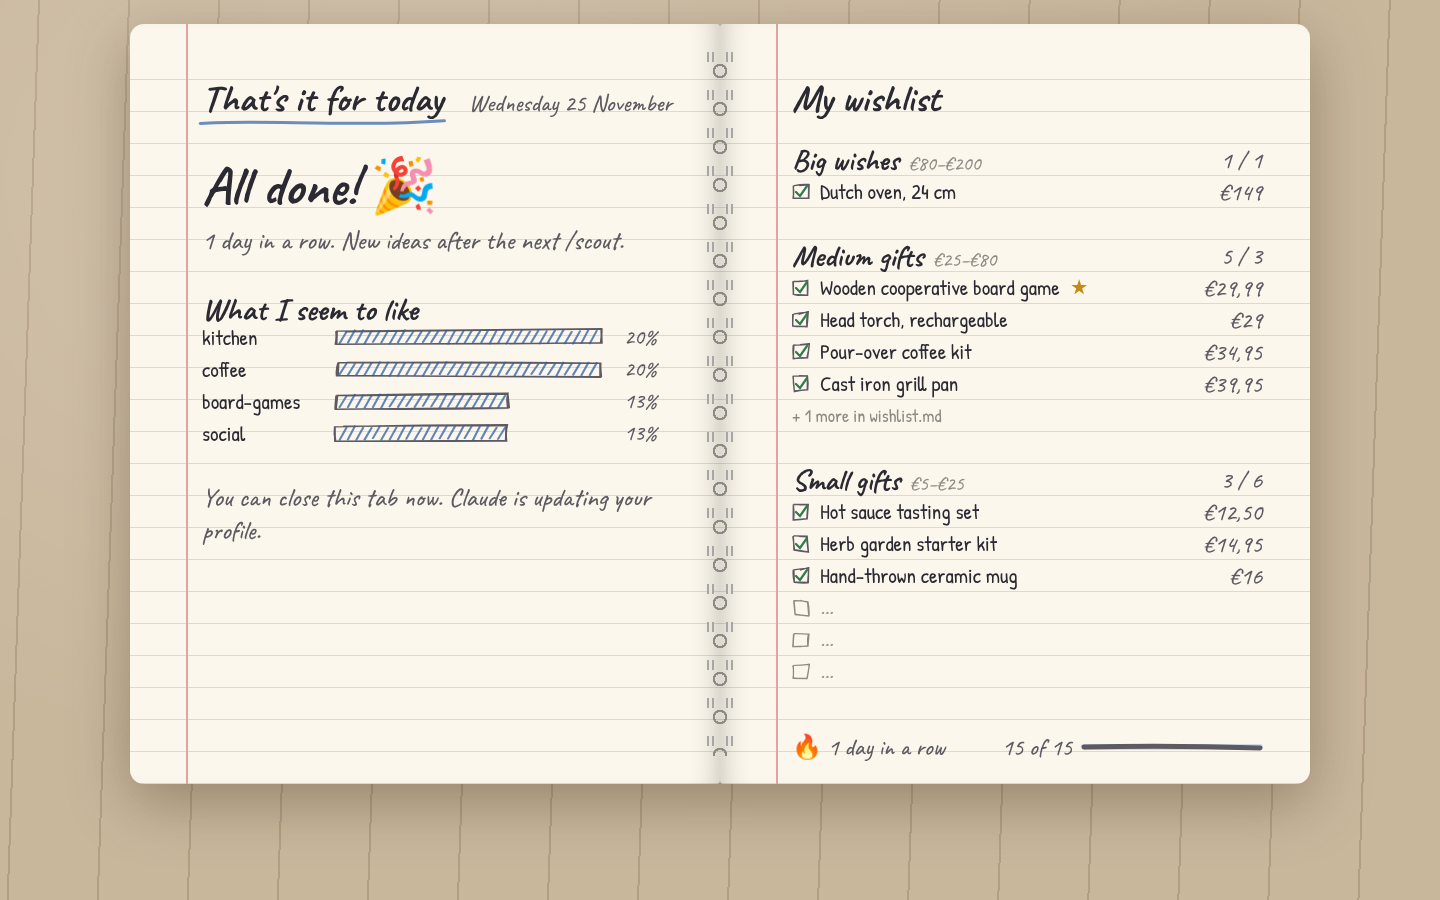
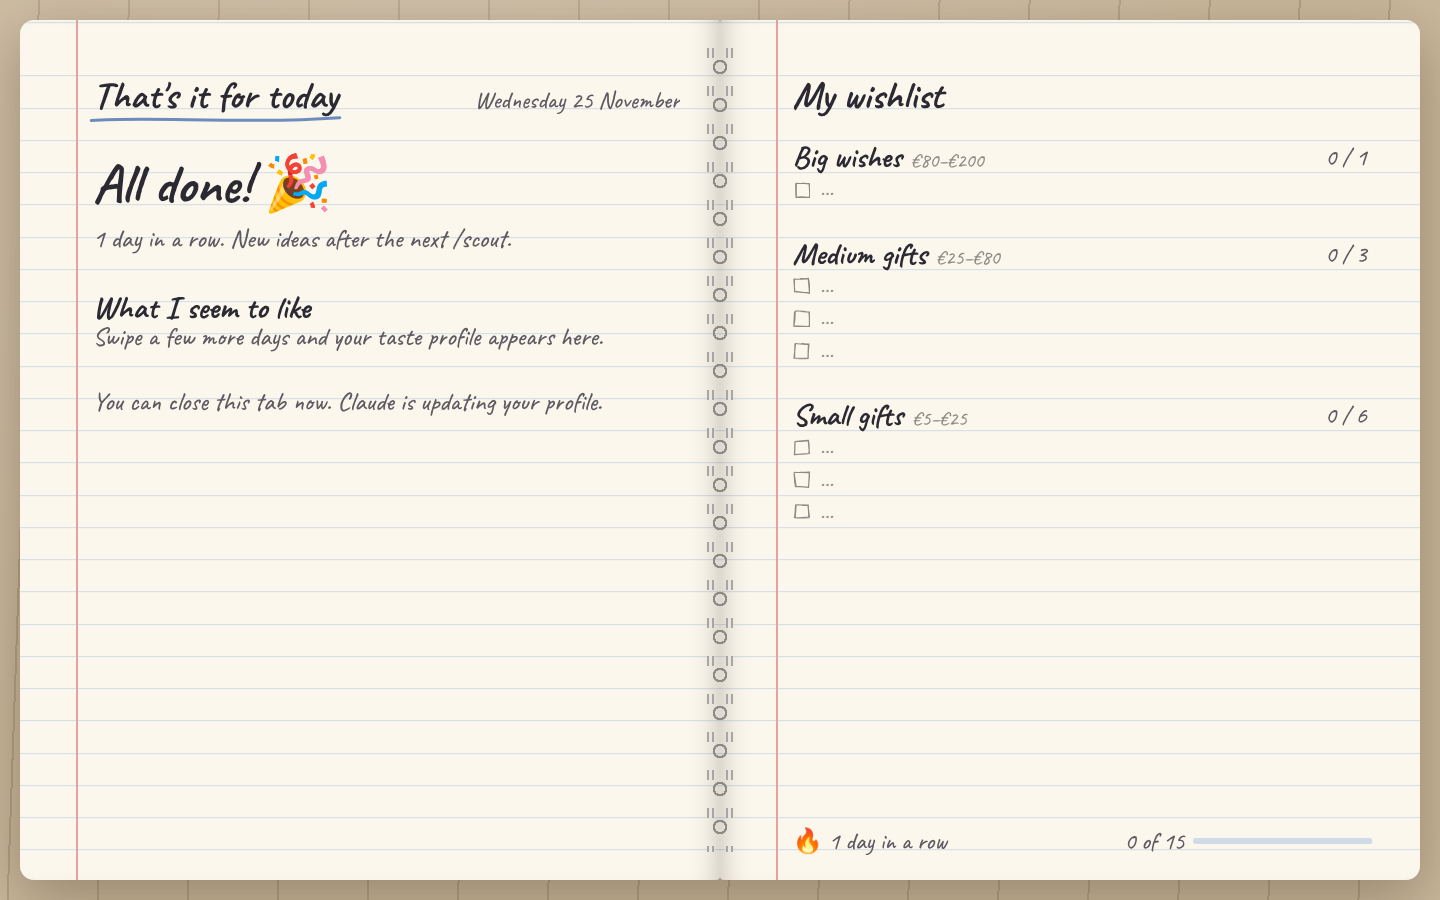
Fill the laptop screen with the notebook, show real product photos, add an Already own it button
- The notebook stretches to the whole window and scales its text with it, so it grows on big screens
  and nothing is cropped on small ones.
- Left page is a grid: the photo shrinks to the space left, long titles and reasons are clipped
  (full text on hover), and the buttons always sit at the bottom.
- Four equal buttons in a 2 x 2 block: Don't like it, Kinda maybe later, Already own it, Put it on the list.
- The wishlist scrolls inside the page, so it no longer runs under the footer.
- Product photos are shown as they are, without the pencil-sketch filter.

Claude-Session: https://claude.ai/code/session_012Yg9ztrmqtN2UZzdbx38BR

diff --git a/app/static/index.html b/app/static/index.html
@@ -15,35 +15,40 @@
     --red: #c8423a; --green: #2f7d4f; --gold: #c58a12; --blue: #2f5fa8;
     --highlight: rgba(255, 223, 87, .55);
     --tape: rgba(236, 224, 180, .78);
-    --line: 32px;
+    --line: 2rem;
+    --gutter: clamp(10px, 1.4vw, 28px);
     --hand: "Caveat", "Segoe Print", "Bradley Hand", "Comic Sans MS", cursive;
     --print: "Patrick Hand", "Segoe Print", "Comic Sans MS", cursive;
   }
+  /* everything is sized in rem, and 1rem grows with the window, so the notebook fills any laptop screen */
+  html { font-size: clamp(13px, min(1.12vw, 1.95vh), 24px); }
   * { box-sizing: border-box; }
-  html, body { margin: 0; min-height: 100%; }
+  html, body { margin: 0; height: 100%; }
   body {
     background:
       radial-gradient(ellipse at 30% 20%, rgba(255,255,255,.18), transparent 60%),
       repeating-linear-gradient(92deg, var(--desk) 0 38px, var(--desk-dark) 38px 40px, var(--desk) 40px 90px);
-    color: var(--ink); font-family: var(--print); font-size: 20px;
-    display: flex; align-items: center; justify-content: center; padding: 24px;
+    color: var(--ink); font-family: var(--print); font-size: 1.25rem;
+    padding: var(--gutter); overflow: hidden;
   }
 
   /* ---------- the notebook spread ---------- */
   .notebook {
     position: relative; display: grid; grid-template-columns: 1fr 1fr;
-    width: min(1180px, 100%); height: min(760px, calc(100vh - 48px)); min-height: 600px;
+    width: 100%; height: 100%; min-height: 520px;
     filter: drop-shadow(0 18px 30px rgba(60, 40, 20, .35));
   }
   .page {
-    position: relative; overflow: hidden; padding: 56px 48px 40px 72px;
+    position: relative; overflow: hidden; min-width: 0; min-height: 0;
+    display: grid; grid-template-rows: auto minmax(0, 1fr) auto; grid-template-columns: minmax(0, 1fr);
+    padding: calc(var(--line) * 1.75) 3rem calc(var(--line) * .75) 4.5rem;
     background:
-      linear-gradient(90deg, transparent 56px, var(--margin) 56px 58px, transparent 58px),
+      linear-gradient(90deg, transparent 3.5rem, var(--margin) 3.5rem calc(3.5rem + 2px), transparent calc(3.5rem + 2px)),
       repeating-linear-gradient(180deg, transparent 0 calc(var(--line) - 1px), var(--rule) calc(var(--line) - 1px) var(--line)),
       var(--paper);
-    background-position: 0 0, 0 24px, 0 0;
+    background-position: 0 0, 0 calc(var(--line) * .75), 0 0;
   }
-  .page.left { border-radius: 14px 4px 4px 14px; box-shadow: inset -24px 0 30px -24px rgba(0,0,0,.25); }
+  .page.left { border-radius: 14px 4px 4px 14px; box-shadow: inset -24px 0 30px -24px rgba(0,0,0,.25); padding-right: 2.5rem; }
   .page.right { border-radius: 4px 14px 14px 4px; box-shadow: inset 24px 0 30px -24px rgba(0,0,0,.25); }
   .rings {
     position: absolute; left: 50%; top: 28px; bottom: 28px; width: 34px; translate: -50% 0; z-index: 3; pointer-events: none;
@@ -57,137 +62,146 @@
             mask: linear-gradient(#000 0 10px, transparent 10px) 0 0 / 34px 38px repeat-y;
   }
 
-  .page-head { display: flex; justify-content: space-between; align-items: baseline; height: var(--line); margin-bottom: var(--line); }
-  .page-head h1, .page-head h2 { font-family: var(--hand); font-weight: 700; font-size: 38px; margin: 0; line-height: 1; }
-  .page-head .date { font-family: var(--hand); font-size: 24px; color: var(--pencil); }
+  .page-head { display: flex; justify-content: space-between; align-items: baseline; gap: 1rem; height: var(--line); margin-bottom: var(--line); white-space: nowrap; }
+  .page-head h1, .page-head h2 { font-family: var(--hand); font-weight: 700; font-size: 2.4rem; margin: 0; line-height: 1; }
+  .page-head .date { font-family: var(--hand); font-size: 1.5rem; color: var(--pencil); overflow: hidden; text-overflow: ellipsis; }
   .scribble-underline { position: relative; display: inline-block; }
   .scribble-underline svg { position: absolute; left: -4px; right: -4px; bottom: -10px; width: calc(100% + 8px); height: 14px; }
 
-  /* ---------- left page: the gift sketch ---------- */
-  #idea { position: relative; height: calc(100% - 2 * var(--line)); display: flex; flex-direction: column; }
-  .idea-body { display: grid; grid-template-columns: minmax(0, 1.1fr) minmax(0, 1fr); gap: 28px; flex: 1; min-height: 0; }
+  /* ---------- left page: the gift idea ---------- */
+  #idea { position: relative; min-height: 0; display: grid; grid-template-rows: minmax(0, 1fr) auto auto; container-type: inline-size; }
+  .idea-body { display: grid; grid-template-columns: minmax(0, 1fr) minmax(0, 1fr); gap: 2rem; min-height: 0; }
+  .photo-cell { min-height: 0; container-type: size; }
   .sketch {
-    position: relative; align-self: start; margin-top: 8px; aspect-ratio: 1 / 1; max-height: 100%;
-    rotate: -1.6deg; background: #fffdf6; padding: 14px;
+    position: relative; margin: .5rem auto 0 0; width: min(100cqw, calc(100cqh - 1.5rem)); aspect-ratio: 1 / 1;
+    rotate: -1.4deg; background: #fff; padding: .7rem; box-shadow: 0 2px 6px rgba(60, 40, 20, .12);
   }
   .sketch .frame { position: absolute; inset: 0; pointer-events: none; }
-  .sketch .photo {
-    width: 100%; height: 100%; object-fit: contain; display: block;
-    filter: url(#pencil) contrast(1.15);
-    mix-blend-mode: multiply; transition: filter .35s;
-  }
-  .sketch:hover .photo { filter: none; }
+  .sketch .photo { width: 100%; height: 100%; object-fit: contain; display: block; }
   .sketch .doodle { width: 100%; height: 100%; }
-  .tape { position: absolute; width: 92px; height: 26px; background: var(--tape); box-shadow: 0 1px 2px rgba(0,0,0,.08); z-index: 2; }
-  .tape.a { top: -11px; left: -22px; rotate: -32deg; }
-  .tape.b { bottom: -10px; right: -24px; rotate: -28deg; }
-  .hover-hint { position: absolute; bottom: -34px; left: 10px; font-family: var(--hand); font-size: 20px; color: var(--faint); rotate: 1deg; }
+  .tape { position: absolute; width: 5.5rem; height: 1.6rem; background: var(--tape); box-shadow: 0 1px 2px rgba(0,0,0,.08); z-index: 2; }
+  .tape.a { top: -.7rem; left: -1.3rem; rotate: -32deg; }
+  .tape.b { bottom: -.6rem; right: -.4rem; rotate: -28deg; }
 
-  .notes { display: flex; flex-direction: column; min-width: 0; }
+  .notes { display: flex; flex-direction: column; min-width: 0; min-height: 0; overflow-y: auto; scrollbar-width: thin; padding-right: .3rem; }
   .tier-tab {
-    align-self: flex-start; font-family: var(--hand); font-size: 22px; font-weight: 700; padding: 0 12px; height: 30px; line-height: 30px;
-    rotate: 2deg; background: #fff2a8; box-shadow: 1px 2px 0 rgba(0,0,0,.08);
+    align-self: flex-start; font-family: var(--hand); font-size: 1.4rem; font-weight: 700; padding: 0 .75rem; height: 1.9rem; line-height: 1.9rem;
+    rotate: 2deg; background: #fff2a8; box-shadow: 1px 2px 0 rgba(0,0,0,.08); margin-top: .5rem;
   }
   .tier-tab.big { background: #e9d6ff; } .tier-tab.medium { background: #cfe6ff; } .tier-tab.small { background: #d8f2c8; }
-  .gift-title { font-family: var(--hand); font-weight: 700; font-size: 44px; line-height: 1.05; margin: 18px 0 6px; overflow-wrap: anywhere; }
-  .shop { color: var(--pencil); font-size: 20px; line-height: var(--line); }
-  .price { position: relative; display: inline-block; font-family: var(--hand); font-weight: 700; font-size: 40px; padding: 4px 16px; margin: 8px 0 4px -6px; align-self: flex-start; }
+  .gift-title {
+    font-family: var(--hand); font-weight: 700; font-size: 2.5rem; line-height: 1.05; margin: 1rem 0 .4rem; overflow-wrap: anywhere;
+    display: -webkit-box; -webkit-box-orient: vertical; -webkit-line-clamp: 3; line-clamp: 3; overflow: hidden; flex: none;
+  }
+  .shop { color: var(--pencil); font-size: 1.25rem; line-height: 1.4; }
+  .price { position: relative; display: inline-block; font-family: var(--hand); font-weight: 700; font-size: 2.4rem; padding: .2rem 1rem; margin: .6rem 0 .3rem .4rem; align-self: flex-start; }
   .price svg { position: absolute; inset: -6px -10px; width: calc(100% + 20px); height: calc(100% + 12px); overflow: visible; }
-  .why { position: relative; font-family: var(--hand); font-size: 26px; color: var(--blue); line-height: 1.15; margin-top: 14px; padding-left: 4px; }
+  .why {
+    position: relative; font-family: var(--hand); font-size: 1.55rem; color: var(--blue); line-height: 1.15; margin-top: .8rem; flex: none;
+    display: -webkit-box; -webkit-box-orient: vertical; -webkit-line-clamp: 4; line-clamp: 4; overflow: hidden;
+  }
   .why b { font-weight: 700; }
-  .why .arrow { position: absolute; left: -70px; top: -6px; width: 66px; height: 46px; overflow: visible; }
-  .shop-link { font-family: var(--hand); font-size: 24px; color: var(--ink); margin-top: 14px; text-decoration: none; border-bottom: 2px dashed var(--faint); align-self: flex-start; }
+  .why .arrow { display: inline-block; width: 2.2rem; height: 1.5rem; vertical-align: -.2rem; margin-right: .3rem; overflow: visible; }
+  .shop-link { font-family: var(--hand); font-size: 1.5rem; color: var(--ink); margin-top: .9rem; text-decoration: none; border-bottom: 2px dashed var(--faint); align-self: flex-start; }
   .shop-link:hover { color: var(--blue); border-color: var(--blue); }
-  .found-via { font-size: 16px; color: var(--faint); margin-top: 6px; }
+  .found-via { font-size: 1rem; color: var(--faint); margin-top: .4rem; }
   .found-via a { color: var(--faint); }
 
-  .actions { display: flex; flex-wrap: wrap; gap: 10px; align-items: center; justify-content: center; padding-top: 18px; margin: 0 -30px 0 -44px; }
+  /* four equal buttons: one row when the page is wide enough, otherwise a 2 x 2 block */
+  .actions { display: grid; grid-template-columns: repeat(2, minmax(0, 1fr)); gap: .7rem 1rem; padding-top: 1.2rem; }
+  @container (min-width: 46rem) { .actions { grid-template-columns: repeat(4, minmax(0, 1fr)); } }
   .btn {
-    position: relative; border: 0; background: transparent; cursor: pointer; font-family: var(--hand); font-weight: 700; font-size: 23px;
-    padding: 5px 13px 7px; color: var(--ink); transition: transform .12s; white-space: nowrap;
+    position: relative; border: 0; background: transparent; cursor: pointer; font-family: var(--hand); font-weight: 700; font-size: 1.45rem;
+    padding: .35rem .6rem .45rem; color: var(--ink); transition: transform .12s; white-space: nowrap; overflow: hidden; text-overflow: ellipsis;
   }
   .btn svg.box { position: absolute; inset: 0; width: 100%; height: 100%; overflow: visible; }
-  .btn:hover { transform: rotate(-2deg) scale(1.05); }
+  .btn:hover { transform: rotate(-2deg) scale(1.04); }
   .btn:active { transform: scale(.95); }
-  .btn.nope { color: var(--red); } .btn.later { color: var(--gold); } .btn.like { color: var(--green); }
-  .own { display: block; margin: 8px auto 0; background: none; border: 0; cursor: pointer; font-family: var(--hand); font-size: 22px;
-         color: var(--pencil); text-decoration: underline wavy var(--faint) 1px; text-underline-offset: 5px; }
-  .own:hover { color: var(--blue); }
-  .keys { text-align: center; font-size: 15px; color: var(--faint); margin-top: 6px; }
+  .btn.nope { color: var(--red); } .btn.later { color: var(--gold); } .btn.own { color: var(--blue); } .btn.like { color: var(--green); }
+  .keys { text-align: center; font-size: .95rem; color: var(--faint); margin-top: .5rem; white-space: nowrap; overflow: hidden; text-overflow: ellipsis; }
   kbd { font-family: var(--print); border: 1px solid var(--faint); border-radius: 4px; padding: 0 5px; }
 
   .cross { position: absolute; inset: 0; pointer-events: none; z-index: 5; }
   .cross path { stroke-dasharray: 1400; stroke-dashoffset: 1400; animation: draw .35s ease-out forwards; }
   .stamp-text {
     position: absolute; top: 34%; left: 50%; translate: -50% -50%; rotate: -10deg; z-index: 6; pointer-events: none;
-    font-family: var(--hand); font-weight: 700; font-size: 64px; padding: 0 18px; white-space: nowrap; border: 4px solid; border-radius: 10px; opacity: 0;
-    animation: stamp .35s ease-out forwards;
+    font-family: var(--hand); font-weight: 700; font-size: 4rem; padding: 0 1.1rem; white-space: nowrap; border: 4px solid; border-radius: 10px; opacity: 0;
+    background: rgba(251, 247, 236, .85); animation: stamp .35s ease-out forwards;
   }
   @keyframes draw { to { stroke-dashoffset: 0; } }
-  @keyframes stamp { from { opacity: 0; scale: 1.6; } to { opacity: .9; scale: 1; } }
+  @keyframes stamp { from { opacity: 0; scale: 1.6; } to { opacity: .92; scale: 1; } }
   .turn-out { animation: turn .38s ease-in forwards; transform-origin: left center; }
   @keyframes turn { to { opacity: 0; transform: perspective(1200px) rotateY(-28deg) translateX(-30px); } }
   .turn-in { animation: turnin .35s ease-out; }
   @keyframes turnin { from { opacity: 0; transform: translateX(20px); } }
 
   /* question page */
-  .question { padding-top: 24px; }
-  .question .kicker { font-family: var(--hand); font-size: 28px; color: var(--blue); rotate: -2deg; display: inline-block; }
-  .question h3 { font-family: var(--hand); font-size: 56px; margin: 12px 0 28px; line-height: 1.05; }
-  .options { display: flex; flex-wrap: wrap; gap: 18px 34px; }
-  .opt { position: relative; font-family: var(--hand); font-size: 38px; background: none; border: 0; cursor: pointer; color: var(--ink); padding: 4px 18px; }
+  .question { padding-top: 1.5rem; overflow-y: auto; min-height: 0; }
+  .question .kicker { font-family: var(--hand); font-size: 1.75rem; color: var(--blue); rotate: -2deg; display: inline-block; }
+  .question h3 { font-family: var(--hand); font-size: 3.4rem; margin: .75rem 0 1.75rem; line-height: 1.05; }
+  .options { display: flex; flex-wrap: wrap; gap: 1.1rem 2.1rem; }
+  .opt { position: relative; font-family: var(--hand); font-size: 2.4rem; background: none; border: 0; cursor: pointer; color: var(--ink); padding: 4px 18px; }
   .opt svg { position: absolute; inset: -4px -8px; width: calc(100% + 16px); height: calc(100% + 8px); overflow: visible; opacity: 0; }
   .opt:hover svg { opacity: .45; }
   .opt.chosen svg { opacity: 1; }
   .opt.chosen svg path { stroke-dasharray: 600; stroke-dashoffset: 600; animation: draw .4s forwards; }
 
   /* ---------- right page: the wishlist ---------- */
+  #wishlist { min-height: 0; overflow-y: auto; scrollbar-width: thin; padding-right: .3rem; }
   .tier { margin-bottom: var(--line); }
   .tier h3 {
-    font-family: var(--hand); font-size: 30px; font-weight: 700; margin: 0; height: var(--line); line-height: var(--line);
-    display: flex; justify-content: space-between;
+    font-family: var(--hand); font-size: 1.9rem; font-weight: 700; margin: 0; height: var(--line); line-height: var(--line);
+    display: flex; justify-content: space-between; gap: 1rem; white-space: nowrap;
   }
-  .tier h3 .count { font-size: 24px; color: var(--pencil); font-weight: 500; }
-  .tier h3 .range { font-size: 20px; color: var(--faint); font-weight: 500; margin-left: 10px; }
+  .tier h3 .count { font-size: 1.5rem; color: var(--pencil); font-weight: 500; }
+  .tier h3 .range { font-size: 1.25rem; color: var(--faint); font-weight: 500; margin-left: .6rem; }
   .tier ul { list-style: none; margin: 0; padding: 0; }
   .tier li {
-    display: flex; align-items: center; gap: 10px; height: var(--line); line-height: var(--line); white-space: nowrap;
-    font-size: 21px;
+    display: flex; align-items: center; gap: .6rem; height: var(--line); line-height: var(--line); white-space: nowrap;
+    font-size: 1.3rem;
   }
-  .tier li .box { flex: none; width: 18px; height: 18px; }
+  .tier li .box { flex: none; width: 1.1rem; height: 1.1rem; }
   .tier li .name { overflow: hidden; text-overflow: ellipsis; min-width: 0; }
   .tier li .name a { color: inherit; text-decoration: none; }
   .tier li .name a:hover { text-decoration: underline wavy var(--faint); }
-  .tier li .p { margin-left: auto; color: var(--pencil); font-family: var(--hand); font-size: 24px; flex: none; }
-  .tier li .star { color: var(--gold); flex: none; font-size: 18px; }
-  .tier li.empty { color: var(--faint); font-family: var(--hand); font-size: 22px; }
+  .tier li .p { margin-left: auto; color: var(--pencil); font-family: var(--hand); font-size: 1.5rem; flex: none; }
+  .tier li .star { color: var(--gold); flex: none; font-size: 1.1rem; }
+  .tier li.empty { color: var(--faint); font-family: var(--hand); font-size: 1.4rem; }
   .tier li.fresh .name { background: linear-gradient(100deg, transparent 0%, var(--highlight) 2%, var(--highlight) 96%, transparent 100%) no-repeat 0 60% / 0% 70%; animation: hl .7s .1s ease-out forwards; }
   @keyframes hl { to { background-size: 100% 70%; } }
-  .tier li.more { color: var(--faint); font-size: 18px; }
+  .tier li.more { color: var(--faint); font-size: 1.1rem; }
 
   .footer-note {
-    position: absolute; left: 72px; right: 48px; bottom: 22px; display: flex; justify-content: space-between; align-items: flex-end;
-    font-family: var(--hand); font-size: 24px; color: var(--pencil);
+    display: flex; justify-content: space-between; align-items: flex-end; gap: 1rem; padding-top: .5rem;
+    font-family: var(--hand); font-size: 1.5rem; color: var(--pencil); white-space: nowrap;
   }
-  .progress { display: flex; align-items: center; gap: 10px; }
-  .progress svg { width: 180px; height: 16px; overflow: visible; }
+  .progress { display: flex; align-items: center; gap: .6rem; }
+  .progress svg { width: 11rem; height: 1rem; overflow: visible; }
 
   /* done page */
-  .done h3 { font-family: var(--hand); font-size: 54px; margin: 8px 0 4px; }
-  .done p { font-family: var(--hand); font-size: 26px; color: var(--pencil); margin: 0 0 var(--line); }
-  .taste-row { display: grid; grid-template-columns: 120px 1fr 48px; align-items: center; gap: 12px; height: var(--line); font-size: 21px; }
-  .taste-row svg { width: 100%; height: 18px; overflow: visible; }
-  .taste-row .pct { font-family: var(--hand); font-size: 22px; color: var(--pencil); }
+  .done { min-height: 0; overflow-y: auto; scrollbar-width: thin; }
+  .done h3 { font-family: var(--hand); font-size: 3.4rem; margin: .5rem 0 .25rem; }
+  .done p { font-family: var(--hand); font-size: 1.6rem; color: var(--pencil); margin: 0 0 var(--line); }
+  .taste-row { display: grid; grid-template-columns: 8rem 1fr 3rem; align-items: center; gap: .75rem; height: var(--line); font-size: 1.3rem; }
+  .taste-row svg { width: 100%; height: 1.1rem; overflow: visible; }
+  .taste-row .pct { font-family: var(--hand); font-size: 1.4rem; color: var(--pencil); }
 
   .hidden { display: none !important; }
 
   @media (max-width: 900px) {
-    body { padding: 12px; align-items: flex-start; }
+    html { font-size: 15px; }
+    body { overflow: auto; height: auto; }
     .notebook { grid-template-columns: 1fr; height: auto; }
     .rings { display: none; }
+    .page { padding: calc(var(--line) * 1.75) 1.2rem calc(var(--line) * .75) 4.2rem !important; }
     .page.left, .page.right { border-radius: 12px; min-height: 640px; }
     .page.right { margin-top: 12px; }
     .idea-body { grid-template-columns: 1fr; }
+    .photo-cell { container-type: normal; }
+    .sketch { width: min(100%, 360px); }
+    .actions { grid-template-columns: 1fr; }
+    .keys { display: none; }
+    .progress svg { width: 6rem; }
   }
 </style>
 </head>
@@ -197,21 +211,6 @@
     <filter id="rough" x="-5%" y="-5%" width="110%" height="110%">
       <feTurbulence type="fractalNoise" baseFrequency="0.035" numOctaves="2" seed="7" result="n"/>
       <feDisplacementMap in="SourceGraphic" in2="n" scale="3.2"/>
-    </filter>
-    <!-- turns a product photo into a pencil sketch: outlines from edge detection, plus a faint grey wash -->
-    <filter id="pencil" color-interpolation-filters="sRGB">
-      <feColorMatrix type="saturate" values="0" result="grey"/>
-      <feConvolveMatrix in="grey" order="3" kernelMatrix="-1 -1 -1 -1 8 -1 -1 -1 -1" preserveAlpha="true" result="edges"/>
-      <feComponentTransfer in="edges" result="lines">
-        <feFuncR type="linear" slope="-3.2" intercept="1"/><feFuncG type="linear" slope="-3.2" intercept="1"/><feFuncB type="linear" slope="-3.2" intercept="1"/>
-      </feComponentTransfer>
-      <feTurbulence type="fractalNoise" baseFrequency="0.9" numOctaves="1" seed="3" result="grain"/>
-      <feColorMatrix in="grain" type="matrix" values="0 0 0 0 1  0 0 0 0 1  0 0 0 0 1  0 0 0 -0.9 0.55" result="paper"/>
-      <feComponentTransfer in="grey" result="wash">
-        <feFuncR type="linear" slope="0.45" intercept="0.58"/><feFuncG type="linear" slope="0.45" intercept="0.58"/><feFuncB type="linear" slope="0.45" intercept="0.58"/>
-      </feComponentTransfer>
-      <feBlend in="lines" in2="wash" mode="multiply" result="sketch"/>
-      <feBlend in="paper" in2="sketch" mode="screen"/>
     </filter>
   </defs>
 </svg>
@@ -292,30 +291,29 @@ function renderIdea() {
   const via = /^https?:/.test(c.source || '') ? `<div class="found-via">found via <a href="${esc(c.source)}" target="_blank" rel="noopener">${esc(hostOf(c.source))}</a></div>` : '';
   box.innerHTML = `
     <div class="idea-body">
-      <div class="sketch">
+      <div class="photo-cell"><div class="sketch">
         <span class="tape a"></span><span class="tape b"></span>
         ${img}
         <svg class="frame" viewBox="0 0 300 300" preserveAspectRatio="none"><path d="${wobblyRect(300, 300, c.id, 4)}" fill="none" stroke="var(--pencil)" stroke-width="1.6" filter="url(#rough)"/></svg>
-        ${c.image ? '<span class="hover-hint">hover for colour</span>' : ''}
-      </div>
+      </div></div>
       <div class="notes">
         <span class="tier-tab ${c.tier}">${TIER_TAB[c.tier]}</span>
-        <div class="gift-title">${esc(c.title)}</div>
+        <div class="gift-title" title="${esc(c.title)}">${esc(c.title)}</div>
         <div class="shop">from ${esc(c.shop)}</div>
         <span class="price">${euro(c.price)}<svg viewBox="0 0 140 64" preserveAspectRatio="none"><path d="${ellipse(140, 64, c.id)}" fill="none" stroke="var(--red)" stroke-width="2.4" stroke-linecap="round" opacity=".8"/></svg></span>
-        ${c.reason ? `<div class="why"><svg class="arrow" viewBox="0 0 66 46"><path d="M4 40 C18 6 40 4 58 18 M58 18 L46 16 M58 18 L54 6" fill="none" stroke="var(--blue)" stroke-width="2.2" stroke-linecap="round"/></svg><b>why?</b> ${esc(c.reason)}</div>` : ''}
+        ${c.reason ? `<div class="why" title="${esc(c.reason)}"><svg class="arrow" viewBox="0 0 66 46"><path d="M4 30 C18 10 40 8 60 22 M60 22 L47 22 M60 22 L54 10" fill="none" stroke="var(--blue)" stroke-width="2.2" stroke-linecap="round"/></svg><b>why?</b> ${esc(c.reason)}</div>` : ''}
         <a class="shop-link" href="${esc(safeUrl(c.url))}" target="_blank" rel="noopener">see it in the shop &rarr;</a>
         ${via}
       </div>
     </div>
     <div class="actions">
-      <button class="btn nope" data-a="dismiss">${svgBox(190, 52, 'n' + index, 'var(--red)')}&#10007; Don't like it</button>
+      <button class="btn nope" data-a="dismiss">${svgBox(220, 52, 'n' + index, 'var(--red)')}&#10007; Don't like it</button>
       <button class="btn later" data-a="later">${svgBox(220, 52, 'l' + index, 'var(--gold)')}~ Kinda, maybe later</button>
+      <button class="btn own" data-a="owned">${svgBox(220, 52, 'o' + index, 'var(--blue)')}&#10003; Already own it</button>
       <button class="btn like" data-a="like">${svgBox(220, 52, 'k' + index, 'var(--green)')}&#9829; Put it on the list</button>
     </div>
-    <button class="own" data-a="owned">&#10003; already own it</button>
-    <div class="keys"><kbd>&larr;</kbd> don't like it &nbsp; <kbd>&darr;</kbd> maybe later &nbsp; <kbd>&rarr;</kbd> on the list &nbsp; <kbd>&uarr;</kbd> already own it</div>`;
-  box.querySelectorAll('.btn, .own').forEach(b => b.onclick = () => act(b.dataset.a));
+    <div class="keys"><kbd>&larr;</kbd> don't like it &nbsp; <kbd>&darr;</kbd> maybe later &nbsp; <kbd>&uarr;</kbd> already own it &nbsp; <kbd>&rarr;</kbd> on the list</div>`;
+  box.querySelectorAll('.btn').forEach(b => b.onclick = () => act(b.dataset.a));
   renderProgress();
 }
 
@@ -407,7 +405,7 @@ async function finish() {
   $('#idea').innerHTML = `<div class="done turn-in">
     <h3>All done! &#127881;</h3>
     <p>${s.streak} ${s.streak === 1 ? 'day' : 'days'} in a row. New ideas after the next /scout.</p>
-    <h3 style="font-size:32px;margin:0;height:var(--line)">What I seem to like</h3>
+    <h3 style="font-size:2rem;margin:0;height:var(--line)">What I seem to like</h3>
     ${taste}
     <p style="margin-top:var(--line)">You can close this tab now. Claude is updating your profile.</p></div>`;
 }

diff --git a/README.md b/README.md
@@ -9,10 +9,10 @@ save it for later, or cross it out. Every swipe teaches it your taste, so tomorr
 
 Everything runs on your own machine. Your profile and wishlist stay in plain files on your computer.
 
-![Today's gift idea, sketched in the notebook, next to your wishlist](docs/notebook-idea.png)
+![Today's gift idea in the notebook, next to your wishlist](docs/notebook-idea.png)
 
-The feed is a notebook on your laptop screen. The left page sketches today's gift ideas one at a time,
-and the right page is your wishlist, filling up as you go. Hover over a sketch to see the real photo.
+The feed is a notebook that fills your whole laptop screen. The left page shows today's gift ideas one at a
+time, with the shop's own photo, and the right page is your wishlist, filling up as you go.
 
 ![The end of the day: your taste so far and your wishlist per price tier](docs/notebook-done.png)
 
